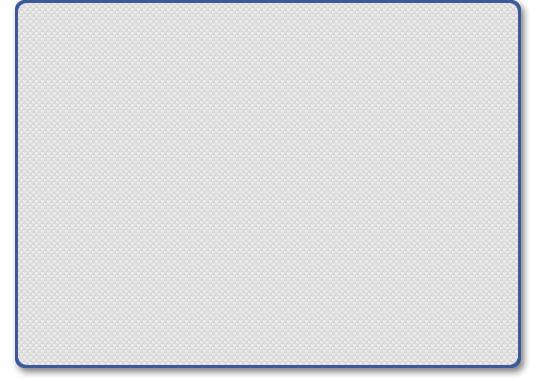
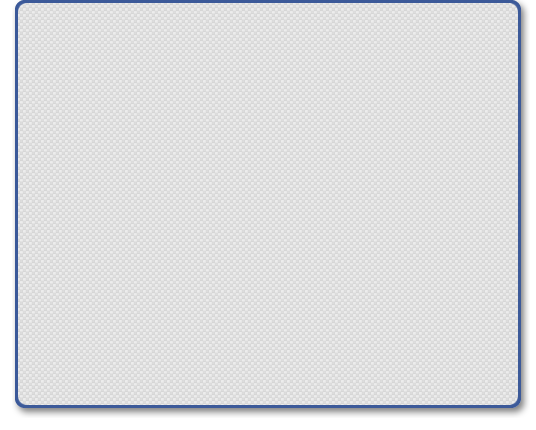
update size of entrance screen back

Changed region(s): [[0.0299, 0.9239, 0.9851, 1.0], [0.9552, 0.0, 0.9851, 0.0289], [0.0299, 0.0, 0.0597, 0.0289]]

diff --git a/mitpakdim.css b/mitpakdim.css
@@ -62,7 +62,7 @@ body {
 
 .entrance_page {
     background-image : url("./static/party_select_back.png");
-    height : 321px;
+    height : 370px;
     width : 436px;
     margin : 130px auto 0 auto;
     padding : 30px 50px 30px 50px;
